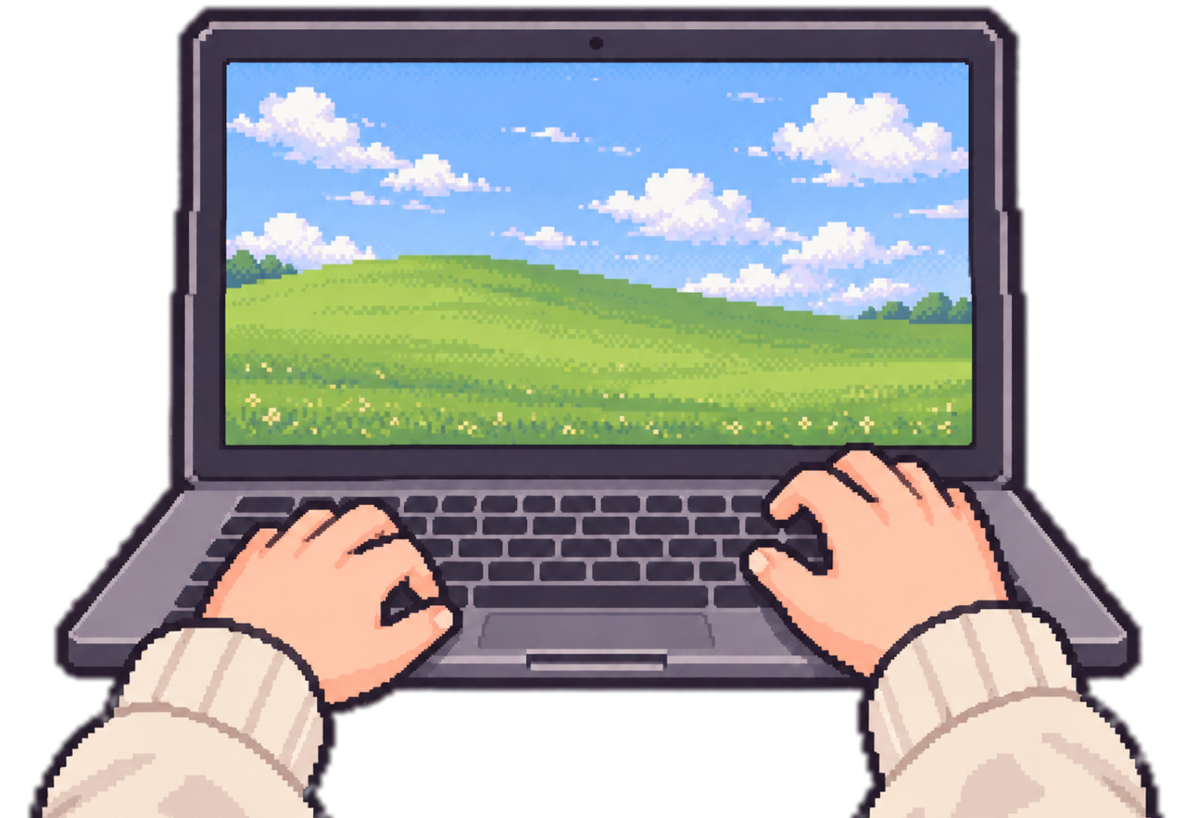
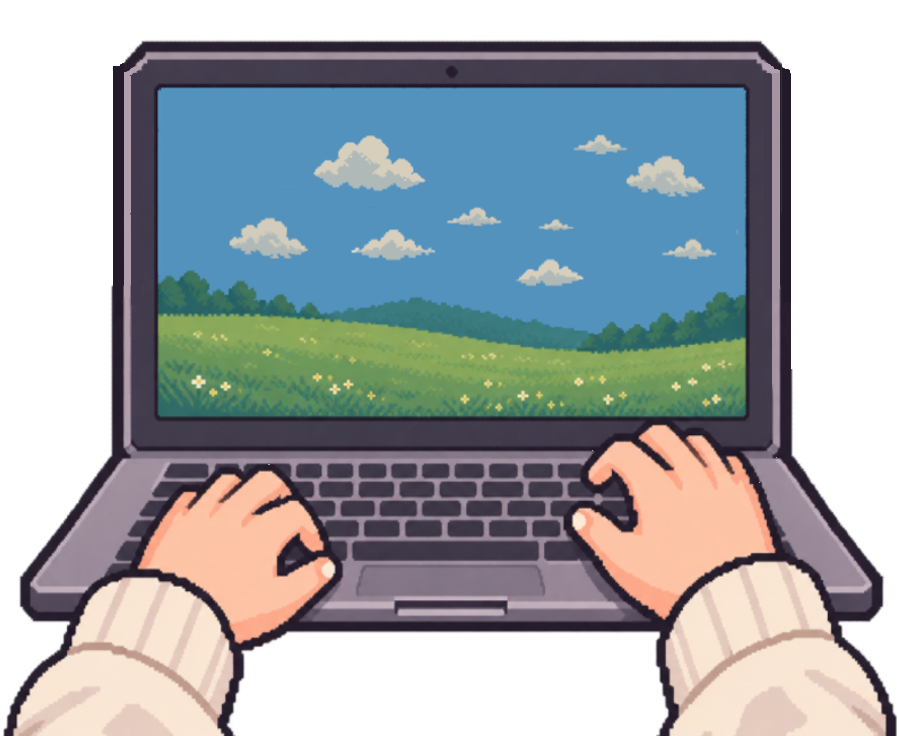
update portfolio visuals and project content

diff --git a/src/data/projects.js b/src/data/projects.js
@@ -2,7 +2,7 @@ export const PROJECTS = [
   {
     id: "language-app",
     title: "Language App",
-    image: "/images/projects/language-app3.png",
+    image: "/images/projects/language-app.png",
     detailImage: "/images/projects/language-app-ui.png",
     alt: "Preview of the language learning app project",
     description:
@@ -15,7 +15,7 @@ export const PROJECTS = [
     id: "rag-chatbot",
     title: "IIT Chatbot",
     image: "/images/projects/rag-chatbot.png",
-    detailImage: "/images/projects/rag-chatbot-ui1.png",
+    detailImage: "/images/projects/rag-chatbot-ui.png",
     alt: "Preview of the IIT RAG chatbot project",
     description:
       "An academic support chatbot grounded in official university policy sources using retrieval-augmented generation pipelines.",

diff --git a/src/styles/TechStack.css b/src/styles/TechStack.css
@@ -2,17 +2,6 @@
    TECH STACK WINDOW
    ========================================================= */
 
-/*
-  RetroWindow.css now handles:
-  - outer window border
-  - title bar
-  - app icon
-  - minimize / maximize / close controls
-  - menu bar
-
-  This file only styles what is unique to Tech Stack.
-*/
-
 .stack-browser {
   --stack-paper: #f1e6de;
   --stack-ink: #35263c;
@@ -49,7 +38,6 @@
   grid-template-columns:
     245px minmax(0, 1fr);
 }
-
 
 /* =========================================================
    CATEGORY SIDEBAR

diff --git a/src/components/Intro/AnimatedCoder.css b/src/components/Intro/AnimatedCoder.css
@@ -1,6 +1,7 @@
 .coder-animation {
-  width: min(500px, 90%);
+  width: min(500px, 100%);
   max-height: min(68svh, 640px);
+  padding-top: 35%;
 
   display: block;
 
@@ -13,6 +14,7 @@
 
 @media (max-width: 720px) {
   .coder-animation {
+    padding-top: 0;
     width: min(300px, 72vw);
     max-height: 360px;
   }

diff --git a/src/components/Intro/Intro.css b/src/components/Intro/Intro.css
@@ -118,7 +118,7 @@
 
   transform: translateX(-50%);
 
-  background-image: url("/images/intro/heading-background2.png");
+  background-image: url("/images/intro/heading-background.png");
   background-repeat: no-repeat;
   background-position: center bottom;
   background-size: 100% auto;
